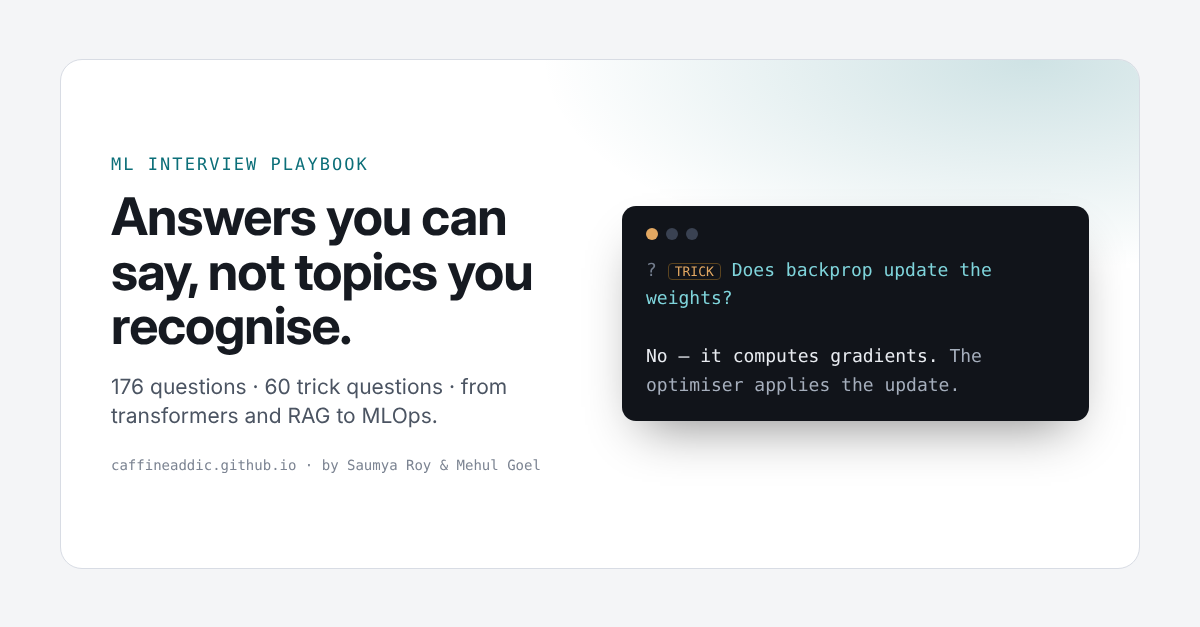
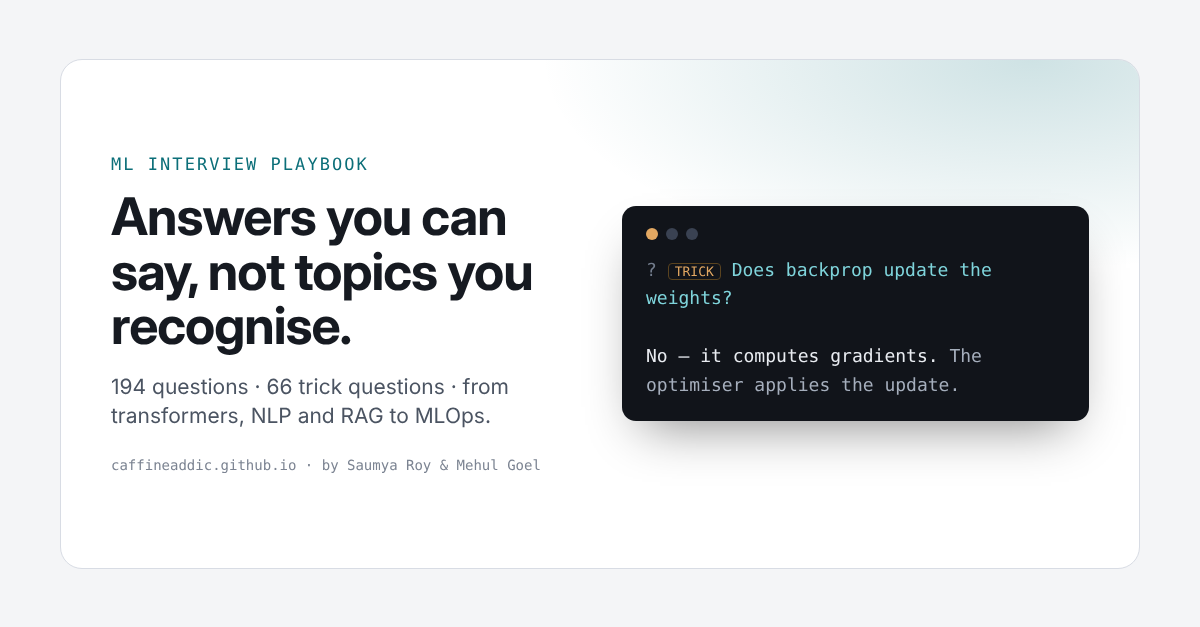
Add NLP section

Changed region(s): [[0.0925, 0.6061, 0.4317, 0.697]]

diff --git a/index.html b/index.html
@@ -15,7 +15,7 @@
 <meta property="og:type" content="website">
 <meta property="og:url" content="https://caffineaddic.github.io/ml-interview-playbook/">
 <meta property="og:title" content="ML Interview Playbook — answers you can say out loud">
-<meta property="og:description" content="176 ML interview questions with spoken-style answers and 60 trick questions. Transformers, LLMs, RAG, classical ML, MLOps, system design. Free and open source.">
+<meta property="og:description" content="194 ML interview questions with spoken-style answers and 66 trick questions. Transformers, LLMs, RAG, NLP, classical ML, MLOps, system design. Free and open source.">
 <meta property="og:image" content="https://caffineaddic.github.io/ml-interview-playbook/og.png">
 <meta property="og:image:width" content="1200">
 <meta property="og:image:height" content="627">
@@ -267,6 +267,7 @@ footer .wrap{padding-block:26px 34px;color:var(--ink-3);font-size:13px}
       <a href="#classical">Classical ML</a>
       <a href="#stats">Probability & stats</a>
       <a href="#data">Data & features</a>
+      <a href="#nlp">NLP</a>
       <a href="#seq">RNNs & seq</a>
       <a href="#llmdeep">LLM training</a>
       <a href="#efficiency">Scale & efficiency</a>
@@ -2512,6 +2513,35 @@ footer .wrap{padding-block:26px 34px;color:var(--ink-3);font-size:13px}
 <details class="qa"><summary>How do you handle class imbalance?</summary><div class="ans"><p>In rough order: use the right metric (PR-AUC, F1, recall at fixed precision); class-weighted loss or focal loss; resampling (undersample majority, oversample minority / SMOTE); tune the decision threshold. Don't resample the test set.</p><button class="star">Mark for review</button></div></details>
 <details class="qa trick"><summary><span class="tag">Trick</span> Random split for time-series data?</summary><div class="ans"><p><strong>No.</strong> Split by time — train on the past, validate on the future — or you leak future information. Use rolling/expanding-window validation.</p><button class="star">Mark for review</button></div></details>
 <details class="qa"><summary>What is k-fold cross-validation and when not to use it?</summary><div class="ans"><p>Split into k folds, train on k−1, validate on the rest, rotate, average. Use grouped CV when samples share an entity (patient, user), and time-based CV for temporal data. Too expensive for large deep models — use a single held-out set.</p><button class="star">Mark for review</button></div></details>
+</div></section>
+
+<section id="nlp"><div class="wrap">
+<p class="eyebrow">Language, before and after LLMs</p>
+<h2>Natural language processing</h2>
+<div class="say"><div class="lbl">The spoken answer — about thirty seconds</div><p>Modern NLP turns text into sub-word tokens, maps them to vectors, and runs a transformer over them. Encoders like BERT see the whole sentence and are best for understanding tasks — classification, entity extraction, embeddings for search. Decoders like GPT see only the left context and are built to generate. Older methods still matter: TF-IDF and BM25 are strong, cheap baselines, especially for exact terms. And for evaluation, overlap metrics like BLEU and ROUGE don't measure correctness, so for clinical text you check factual consistency separately.</p></div>
+<figure>
+<svg viewBox="0 0 720 300" role="img" aria-label="Evolution of text representations, encoder vs decoder attention, sub-word tokens"><defs><marker id="mnlp" markerWidth="7" markerHeight="7" refX="6" refY="3" orient="auto"><path d="M0,0 L6,3 L0,6 z" fill="var(--ink-3)"/></marker><marker id="nnlp" markerWidth="7" markerHeight="7" refX="6" refY="3" orient="auto"><path d="M0,0 L6,3 L0,6 z" fill="var(--accent)"/></marker></defs><text x="20" y="20" class="s-t-a" text-anchor="start">THREE GENERATIONS OF TEXT REPRESENTATION</text><rect x="20" y="34" width="214" height="108" rx="6" class="s-box"/><text x="34" y="56" class="s-t-m" text-anchor="start">1 · COUNTS</text><text x="34" y="76" class="s-t" text-anchor="start" style="font-weight:600">TF-IDF / bag of words</text><text x="34" y="98" class="s-t-s" text-anchor="start">order ignored</text><text x="34" y="113" class="s-t-s" text-anchor="start">sparse, explainable</text><text x="34" y="128" class="s-t-s" text-anchor="start">still wins: BM25 search</text><path d="M236 88 H252" class="s-arrow" marker-end="url(#mnlp)"/><rect x="256" y="34" width="214" height="108" rx="6" class="s-box"/><text x="270" y="56" class="s-t-m" text-anchor="start">2 · STATIC VECTORS</text><text x="270" y="76" class="s-t" text-anchor="start" style="font-weight:600">word2vec · GloVe</text><text x="270" y="98" class="s-t-s" text-anchor="start">one vector per word</text><text x="270" y="113" class="s-t-s" text-anchor="start">similar context ⇒ similar vector</text><text x="270" y="128" class="s-t-s" text-anchor="start">'bank' has one meaning</text><path d="M472 88 H488" class="s-arrow" marker-end="url(#mnlp)"/><rect x="492" y="34" width="214" height="108" rx="6" class="s-box-a"/><text x="506" y="56" class="s-t-m" text-anchor="start">3 · CONTEXTUAL</text><text x="506" y="76" class="s-t" text-anchor="start" style="font-weight:600">BERT · GPT</text><text x="506" y="98" class="s-t-s" text-anchor="start">vector depends on sentence</text><text x="506" y="113" class="s-t-s" text-anchor="start">transformer, pre-trained</text><text x="506" y="128" class="s-t-s" text-anchor="start">basis of modern NLP</text><text x="20" y="172" class="s-t-a" text-anchor="start">ENCODER vs DECODER — WHAT EACH TOKEN CAN SEE</text><text x="20" y="194" class="s-t" text-anchor="start" style="font-weight:600">BERT · bidirectional</text><rect x="20" y="204" width="15" height="15" rx="2" class="s-fill" opacity=".75"/><rect x="38" y="204" width="15" height="15" rx="2" class="s-fill" opacity=".75"/><rect x="56" y="204" width="15" height="15" rx="2" class="s-fill" opacity=".75"/><rect x="74" y="204" width="15" height="15" rx="2" class="s-fill" opacity=".75"/><rect x="92" y="204" width="15" height="15" rx="2" class="s-fill" opacity=".75"/><rect x="20" y="222" width="15" height="15" rx="2" class="s-fill" opacity=".75"/><rect x="38" y="222" width="15" height="15" rx="2" class="s-fill" opacity=".75"/><rect x="56" y="222" width="15" height="15" rx="2" class="s-fill" opacity=".75"/><rect x="74" y="222" width="15" height="15" rx="2" class="s-fill" opacity=".75"/><rect x="92" y="222" width="15" height="15" rx="2" class="s-fill" opacity=".75"/><rect x="20" y="240" width="15" height="15" rx="2" class="s-fill" opacity=".75"/><rect x="38" y="240" width="15" height="15" rx="2" class="s-fill" opacity=".75"/><rect x="56" y="240" width="15" height="15" rx="2" class="s-fill" opacity=".75"/><rect x="74" y="240" width="15" height="15" rx="2" class="s-fill" opacity=".75"/><rect x="92" y="240" width="15" height="15" rx="2" class="s-fill" opacity=".75"/><rect x="20" y="258" width="15" height="15" rx="2" class="s-fill" opacity=".75"/><rect x="38" y="258" width="15" height="15" rx="2" class="s-fill" opacity=".75"/><rect x="56" y="258" width="15" height="15" rx="2" class="s-fill" opacity=".75"/><rect x="74" y="258" width="15" height="15" rx="2" class="s-fill" opacity=".75"/><rect x="92" y="258" width="15" height="15" rx="2" class="s-fill" opacity=".75"/><rect x="20" y="276" width="15" height="15" rx="2" class="s-fill" opacity=".75"/><rect x="38" y="276" width="15" height="15" rx="2" class="s-fill" opacity=".75"/><rect x="56" y="276" width="15" height="15" rx="2" class="s-fill" opacity=".75"/><rect x="74" y="276" width="15" height="15" rx="2" class="s-fill" opacity=".75"/><rect x="92" y="276" width="15" height="15" rx="2" class="s-fill" opacity=".75"/><text x="120" y="228" class="s-t-s" text-anchor="start">masked LM:</text><text x="120" y="243" class="s-t-s" text-anchor="start">fill in [MASK]</text><text x="120" y="258" class="s-t-s" text-anchor="start">→ classify, NER,</text><text x="120" y="273" class="s-t-s" text-anchor="start">   embeddings</text><text x="256" y="194" class="s-t" text-anchor="start" style="font-weight:600">GPT · causal</text><rect x="256" y="204" width="15" height="15" rx="2" class="s-fill" opacity=".75"/><rect x="274" y="204" width="15" height="15" rx="2" class="s-box" opacity="1"/><rect x="292" y="204" width="15" height="15" rx="2" class="s-box" opacity="1"/><rect x="310" y="204" width="15" height="15" rx="2" class="s-box" opacity="1"/><rect x="328" y="204" width="15" height="15" rx="2" class="s-box" opacity="1"/><rect x="256" y="222" width="15" height="15" rx="2" class="s-fill" opacity=".75"/><rect x="274" y="222" width="15" height="15" rx="2" class="s-fill" opacity=".75"/><rect x="292" y="222" width="15" height="15" rx="2" class="s-box" opacity="1"/><rect x="310" y="222" width="15" height="15" rx="2" class="s-box" opacity="1"/><rect x="328" y="222" width="15" height="15" rx="2" class="s-box" opacity="1"/><rect x="256" y="240" width="15" height="15" rx="2" class="s-fill" opacity=".75"/><rect x="274" y="240" width="15" height="15" rx="2" class="s-fill" opacity=".75"/><rect x="292" y="240" width="15" height="15" rx="2" class="s-fill" opacity=".75"/><rect x="310" y="240" width="15" height="15" rx="2" class="s-box" opacity="1"/><rect x="328" y="240" width="15" height="15" rx="2" class="s-box" opacity="1"/><rect x="256" y="258" width="15" height="15" rx="2" class="s-fill" opacity=".75"/><rect x="274" y="258" width="15" height="15" rx="2" class="s-fill" opacity=".75"/><rect x="292" y="258" width="15" height="15" rx="2" class="s-fill" opacity=".75"/><rect x="310" y="258" width="15" height="15" rx="2" class="s-fill" opacity=".75"/><rect x="328" y="258" width="15" height="15" rx="2" class="s-box" opacity="1"/><rect x="256" y="276" width="15" height="15" rx="2" class="s-fill" opacity=".75"/><rect x="274" y="276" width="15" height="15" rx="2" class="s-fill" opacity=".75"/><rect x="292" y="276" width="15" height="15" rx="2" class="s-fill" opacity=".75"/><rect x="310" y="276" width="15" height="15" rx="2" class="s-fill" opacity=".75"/><rect x="328" y="276" width="15" height="15" rx="2" class="s-fill" opacity=".75"/><text x="356" y="228" class="s-t-s" text-anchor="start">next token:</text><text x="356" y="243" class="s-t-s" text-anchor="start">left context only</text><text x="356" y="258" class="s-t-s" text-anchor="start">→ generate</text><rect x="490" y="180" width="220" height="110" rx="6" class="s-box" style="fill:var(--accent-soft);stroke:var(--accent);stroke-opacity:.35"/><text x="504" y="202" class="s-t" text-anchor="start" style="font-weight:600">Sub-word tokens</text><rect x="504" y="214" width="30" height="22" rx="3" class="s-box-a"/><text x="519.0" y="229" class="s-t-m" text-anchor="middle">un</text><rect x="539" y="214" width="62" height="22" rx="3" class="s-box-a"/><text x="570.0" y="229" class="s-t-m" text-anchor="middle">believ</text><rect x="606" y="214" width="46" height="22" rx="3" class="s-box-a"/><text x="629.0" y="229" class="s-t-m" text-anchor="middle">able</text><text x="504" y="256" class="s-t-s" text-anchor="start">BPE merges frequent pairs, so rare</text><text x="504" y="271" class="s-t-s" text-anchor="start">words split and nothing is unknown.</text></svg>
+<figcaption><b>From counting words to reading them in context.</b> Each generation fixed the last one's blind spot: counts ignore meaning, static vectors ignore context, contextual models read the whole sentence. The attention mask is what separates an encoder from a decoder.</figcaption>
+</figure>
+<h3>Questions</h3>
+<details class="qa"><summary>How does BPE tokenisation work?</summary><div class="ans"><p>Start from characters (or bytes). Repeatedly find the most frequent adjacent pair in the training corpus and merge it into a new token, until the vocabulary reaches a target size (often 32k–200k).</p><p>Common words become single tokens; rare words split into pieces, so there is <strong>no out-of-vocabulary problem</strong>. WordPiece (BERT) and SentencePiece/Unigram are close relatives.</p><button class="star">Mark for review</button></div></details>
+<details class="qa"><summary>Why not tokenise by word, or by character?</summary><div class="ans"><p>Words: huge vocabulary, and any unseen word becomes an unknown token. Characters: tiny vocabulary but very long sequences, which is expensive for attention and makes the model learn spelling from scratch. Sub-words sit in between.</p><button class="star">Mark for review</button></div></details>
+<details class="qa trick"><summary><span class="tag">Trick</span> Why are LLMs bad at counting letters in a word?</summary><div class="ans"><p><strong>They never see the letters.</strong> 'strawberry' arrives as two or three sub-word tokens, so the character count isn't directly in the input. The same root cause hurts arithmetic on long numbers and rhyming.</p><button class="star">Mark for review</button></div></details>
+<details class="qa"><summary>Bag-of-words and TF-IDF — what are they, and are they still useful?</summary><div class="ans"><p>Bag-of-words counts word occurrences, ignoring order. TF-IDF weights each count by how rare the word is across documents, so 'the' counts for little and 'myocarditis' for a lot.</p><p>Still useful: as a fast, explainable baseline for classification, and as <strong>BM25</strong> in search, where it routinely beats dense retrieval on exact terms.</p><button class="star">Mark for review</button></div></details>
+<details class="qa"><summary>How does word2vec learn embeddings?</summary><div class="ans"><p>Train a shallow network to predict a word from its neighbours (CBOW) or neighbours from a word (skip-gram), using negative sampling to keep it cheap. Words appearing in similar contexts end up with similar vectors — the distributional hypothesis.</p><p>The famous result: king − man + woman ≈ queen.</p><button class="star">Mark for review</button></div></details>
+<details class="qa trick"><summary><span class="tag">Trick</span> Does word2vec give 'bank' different vectors in 'river bank' and 'bank loan'?</summary><div class="ans"><p><strong>No — one vector per word type</strong>, a blend of all its senses. That's the core limitation contextual models (ELMo, BERT) fixed: the vector depends on the sentence.</p><button class="star">Mark for review</button></div></details>
+<details class="qa"><summary>BERT vs GPT — what is the actual difference?</summary><div class="ans"><p><strong>BERT</strong> is an encoder trained with masked language modelling: it sees the whole sentence in both directions. Great for understanding tasks — classification, NER, embeddings.</p><p><strong>GPT</strong> is a decoder trained on next-token prediction with a causal mask: it only sees the left context. Built for generation. T5 and BART are encoder–decoder, suited to translation and summarisation.</p><button class="star">Mark for review</button></div></details>
+<details class="qa"><summary>What is masked language modelling, exactly?</summary><div class="ans"><p>Hide about 15% of tokens and train the model to predict them from both sides. (BERT replaces 80% of those with [MASK], 10% with a random token, 10% unchanged, so the model can't rely on seeing [MASK] at fine-tune time.)</p><button class="star">Mark for review</button></div></details>
+<details class="qa trick"><summary><span class="tag">Trick</span> Can you generate fluent text with BERT?</summary><div class="ans"><p><strong>Not naturally.</strong> It was never trained to produce text left to right, so there's no clean way to sample a sequence. It's an encoder; use it to read, not to write.</p><button class="star">Mark for review</button></div></details>
+<details class="qa"><summary>How do you build sentence embeddings for search?</summary><div class="ans"><p>Fine-tune an encoder with a <strong>contrastive</strong> objective on pairs that should match (question–answer, paraphrases), pulling them together and pushing in-batch negatives apart. Mean-pool the token vectors. Sentence-BERT is the classic recipe; modern embedding models follow it.</p><button class="star">Mark for review</button></div></details>
+<details class="qa trick"><summary><span class="tag">Trick</span> Is the raw BERT [CLS] vector a good sentence embedding?</summary><div class="ans"><p><strong>Usually not.</strong> Without contrastive fine-tuning, raw BERT embeddings cluster in a narrow cone and cosine similarity between them is poorly informative — often worse than averaged GloVe vectors.</p><button class="star">Mark for review</button></div></details>
+<details class="qa"><summary>What is named entity recognition and how is it framed?</summary><div class="ans"><p>Tagging spans like PERSON, DRUG, DATE. Framed as token classification with <strong>BIO tags</strong> (Begin, Inside, Outside), so 'acute myeloid leukaemia' becomes B-DISEASE I-DISEASE I-DISEASE. Evaluated with span-level F1, not token accuracy.</p><button class="star">Mark for review</button></div></details>
+<details class="qa"><summary>How do you evaluate generated text?</summary><div class="ans"><p><strong>BLEU</strong> (n-gram precision, translation), <strong>ROUGE</strong> (n-gram recall, summarisation), <strong>BERTScore</strong> (embedding similarity), and increasingly LLM-as-judge plus human evaluation.</p><p>All the overlap metrics reward copying the reference's words, not being right.</p><button class="star">Mark for review</button></div></details>
+<details class="qa trick"><summary><span class="tag">Trick</span> Does a high ROUGE score mean a summary is accurate?</summary><div class="ans"><p><strong>No.</strong> A summary can share most of its words with the reference and still flip a negation or invent a number. For anything clinical, check <strong>factual consistency</strong> separately (entailment models, QA-based checks, or expert review).</p><button class="star">Mark for review</button></div></details>
+<details class="qa"><summary>What is perplexity?</summary><div class="ans"><p>The exponential of the average negative log-likelihood per token: roughly, how many tokens the model is choosing between at each step. Lower is better. Only comparable between models with the <strong>same tokeniser</strong> and the same test text.</p><button class="star">Mark for review</button></div></details>
+<details class="qa trick"><summary><span class="tag">Trick</span> Lower perplexity, better clinical QA?</summary><div class="ans"><p><strong>Not necessarily.</strong> Perplexity measures how well the model predicts text, not whether its answers are correct. Domain-adapting a model can cut perplexity sharply while factual QA barely moves — measure the task directly.</p><button class="star">Mark for review</button></div></details>
+<details class="qa"><summary>Fine-tune a classifier, or prompt an LLM?</summary><div class="ans"><p>Prompt an LLM when labels are scarce, the task changes often, or you need it working today. Fine-tune a small encoder when you have a few thousand labels, need low latency and cost at scale, or need stable, auditable behaviour. A common path: use the LLM to label data, then distil into a small model.</p><button class="star">Mark for review</button></div></details>
+<details class="qa"><summary>What NLP problems are specific to clinical text?</summary><div class="ans"><p>Abbreviations and ambiguity ('MS' = multiple sclerosis or mitral stenosis), <strong>negation</strong> ('no evidence of pneumonia'), copy-pasted note bloat, de-identification requirements, and a vocabulary general tokenisers split badly. Negation handling alone breaks many naive keyword systems.</p><button class="star">Mark for review</button></div></details>
 </div></section>
 
 <section id="seq"><div class="wrap">
